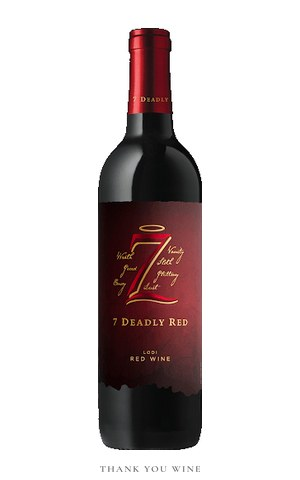
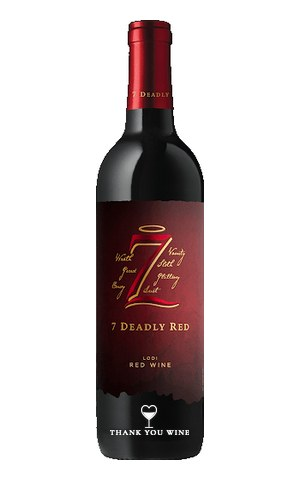
병 사진 로고: 하트+THANK YOU WINE을 병 몸통 아래쪽에 흰색으로 얹기(도하, 도용 방지), 9종 다시 생성 (#36)
Claude-Session: https://claude.ai/code/session_012cU88TskmTd7Di4gHVmdyx

Changed region(s): [[0.3, 0.0312, 0.69, 1.0], [0.36, 0.4688, 0.63, 0.6875], [0.42, 0.3438, 0.45, 0.4375]]

diff --git a/wines/index.html b/wines/index.html
@@ -68,7 +68,7 @@
     <div class="wfind" role="search">
       <label class="wsearch"><span class="sr">와인 검색</span><input id="wq" type="search" placeholder="와인 이름, 품종, 지역으로 찾기 (예: 피노 누아, 보르도, Chablis)" autocomplete="off"></label>
       <div class="wsel">
-        <label><span class="sr">나라</span><select id="wcountry"><option value="">모든 나라</option><option value="프랑스">프랑스</option><option value="이탈리아">이탈리아</option><option value="스페인">스페인</option><option value="포르투갈">포르투갈</option><option value="칠레">칠레</option><option value="미국">미국</option><option value="독일">독일</option><option value="호주">호주</option><option value="뉴질랜드">뉴질랜드</option><option value="아르헨티나">아르헨티나</option><option value="몰도바">몰도바</option><option value="오스트리아">오스트리아</option><option value="헝가리">헝가리</option><option value="남아공">남아공</option><option value="조지아">조지아</option><option value="그리스">그리스</option></select></label>
+        <label><span class="sr">나라</span><select id="wcountry"><option value="">모든 나라</option><option value="프랑스">프랑스</option><option value="이탈리아">이탈리아</option><option value="스페인">스페인</option><option value="포르투갈">포르투갈</option><option value="칠레">칠레</option><option value="미국">미국</option><option value="독일">독일</option><option value="호주">호주</option><option value="뉴질랜드">뉴질랜드</option><option value="아르헨티나">아르헨티나</option><option value="몰도바">몰도바</option><option value="오스트리아">오스트리아</option><option value="헝가리">헝가리</option><option value="남아공">남아공</option><option value="그리스">그리스</option><option value="조지아">조지아</option></select></label>
         <label class="wnow"><input id="wnow" type="checkbox"> 지금 매장에 있는 와인만</label>
       </div>
       <div class="chips" id="wchips" role="group" aria-label="스타일"><button class="chip" type="button" data-style="" aria-pressed="true">전체</button><button class="chip" type="button" data-style="레드" aria-pressed="false">레드</button><button class="chip" type="button" data-style="화이트" aria-pressed="false">화이트</button><button class="chip" type="button" data-style="로제" aria-pressed="false">로제</button><button class="chip" type="button" data-style="스파클링" aria-pressed="false">스파클링</button><button class="chip" type="button" data-style="스위트" aria-pressed="false">스위트</button><button class="chip" type="button" data-style="포트·셰리" aria-pressed="false">포트·셰리</button><button class="chip" type="button" data-style="무알콜" aria-pressed="false">무알콜</button><button class="chip" type="button" data-style="기타" aria-pressed="false">기타</button></div>

diff --git a/tools/bottle_img.py b/tools/bottle_img.py
@@ -1,18 +1,24 @@
-"""병 사진 → 사이트용 300x480 흰 배경 jpg + 병 아래쪽 가운데 작은 땡큐와인 글자(도하 11/25: 에이와인처럼 밑에 작게).
+"""병 사진 → 사이트용 300x480 흰 배경 jpg + 병 아래쪽 유리 위에 땡큐와인 로고(도하 11/25: 에이와인처럼 병 위에 얹어 도용 방지).
 사용: python3 tools/bottle_img.py <원본 이미지> "<wines.json ko 이름>" [--erase x0,y0,x1,y1]
 --erase: 원본에서 지울 영역(다른 사이트 배지 등)을 흰색으로 덮음."""
 import sys,json,hashlib,os
 from PIL import Image,ImageChops
 HERE=os.path.dirname(os.path.abspath(__file__)); ROOT=os.path.dirname(HERE)
 W,H=300,480
-def stamp():
-    """'THANK YOU WINE' 글자 마스크(에이와인처럼 병 밑 가운데 회색 작은 글자)"""
+def stamp(w):
+    """땡큐와인 로고 마스크: 하트 와인잔(꼭 들어감, 도하 11/25) 위 + THANK YOU WINE 아래, 폭 w."""
     from PIL import ImageFilter
     lg=Image.open(os.path.join(ROOT,'assets/logo-wide.png')).convert('L')
-    t=lg.crop((290,100,1100,175))
-    m=ImageChops.invert(t).point(lambda v:min(255,v*2))
-    m=m.crop(m.point(lambda v:255 if v>30 else 0).getbbox())
-    w=100; m=m.resize((w,max(1,int(m.height*w/m.width))),Image.LANCZOS)
+    def mask(box,boost):
+        m=ImageChops.invert(lg.crop(box)).point(lambda v:min(255,v*boost))
+        return m.crop(m.point(lambda v:255 if v>30 else 0).getbbox())
+    heart=mask((110,80,260,260),3)
+    text=mask((290,100,1100,175),3).filter(ImageFilter.MaxFilter(5))
+    tw=w; text=text.resize((tw,max(1,int(text.height*tw/text.width))),Image.LANCZOS)
+    hh=int(w*0.30); heart=heart.resize((max(1,int(heart.width*hh/heart.height)),hh),Image.LANCZOS)
+    gap=max(2,w//40)
+    m=Image.new('L',(w,hh+gap+text.height),0)
+    m.paste(heart,((w-heart.width)//2,0)); m.paste(text,(0,hh+gap))
     return m
 def make(src,ko,erase=None):
     im=Image.open(src).convert('RGBA')
@@ -25,10 +31,18 @@ def make(src,ko,erase=None):
     m=im.convert('L').point(lambda v:255 if v>=236 else 0); im.paste((255,255,255),mask=m)
     g=ImageChops.invert(im.convert('L')).point(lambda v:255 if v>18 else 0)
     b=im.crop(g.getbbox())
-    s=min(250/b.width,422/b.height); b=b.resize((max(1,int(b.width*s)),int(b.height*s)),Image.LANCZOS)
-    out=Image.new('RGB',(W,H),'white'); out.paste(b,((W-b.width)//2,H-b.height-30))
-    m=stamp(); x=(W-m.width)//2; y=H-8-m.height   # 맨 아래 가운데, 회색 작은 글자
-    out.paste((110,110,110),(x,y),m)
+    s=min(250/b.width,440/b.height); b=b.resize((max(1,int(b.width*s)),int(b.height*s)),Image.LANCZOS)
+    from PIL import ImageFilter
+    out=Image.new('RGB',(W,H),'white'); out.paste(b,((W-b.width)//2,H-b.height-20))
+    # 로고를 병 아래쪽 유리 위에 얹음(흰 글자+옅은 그림자, 밝은 병에서도 보이게)
+    from PIL import ImageFilter
+    bx=(W-b.width)//2; by=H-b.height-20
+    m=stamp(max(70,min(int(b.width*0.74),140)))
+    # 병 몸통 아래쪽(병 높이 91% 지점)에 흰 로고+어두운 테두리: 어느 병·라벨 위에서도 보이고 잘라내기 어렵게
+    x=(W-m.width)//2; y=by+int(b.height*0.91)-m.height//2
+    edge=m.filter(ImageFilter.MaxFilter(3)).filter(ImageFilter.GaussianBlur(0.8)).point(lambda v:int(v*0.7))
+    out.paste((25,25,25),(x,y),edge)
+    out.paste((255,255,255),(x,y),m)
     fn='assets/wines/w'+hashlib.md5(ko.encode()).hexdigest()[:8]+'.jpg'
     out.save(os.path.join(ROOT,fn),quality=88)
     p=os.path.join(HERE,'wines.json'); w=json.load(open(p))
